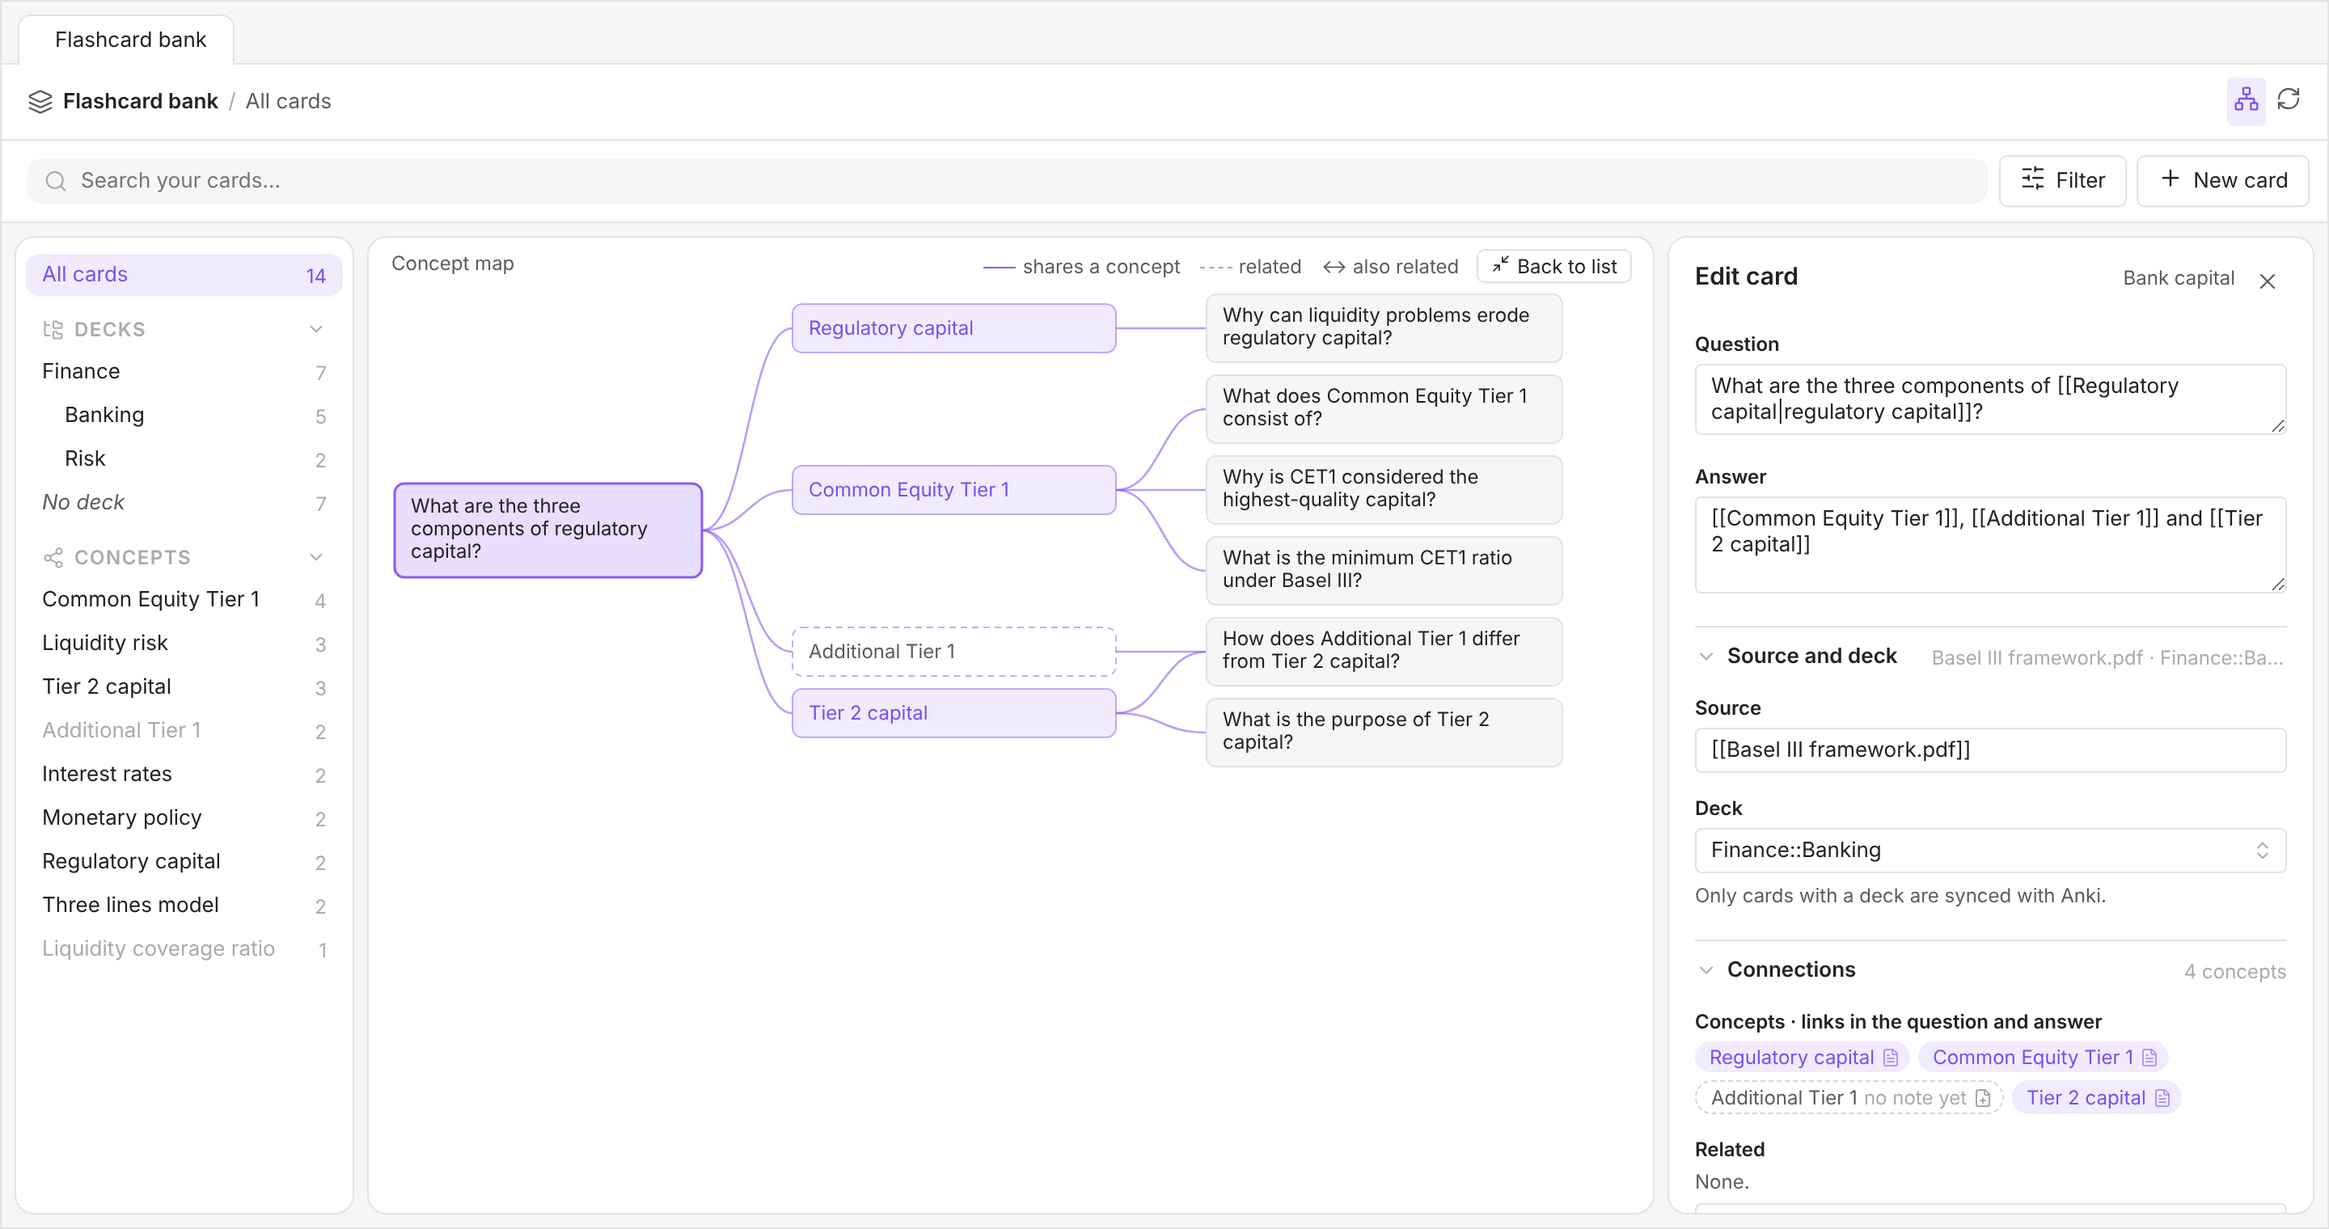
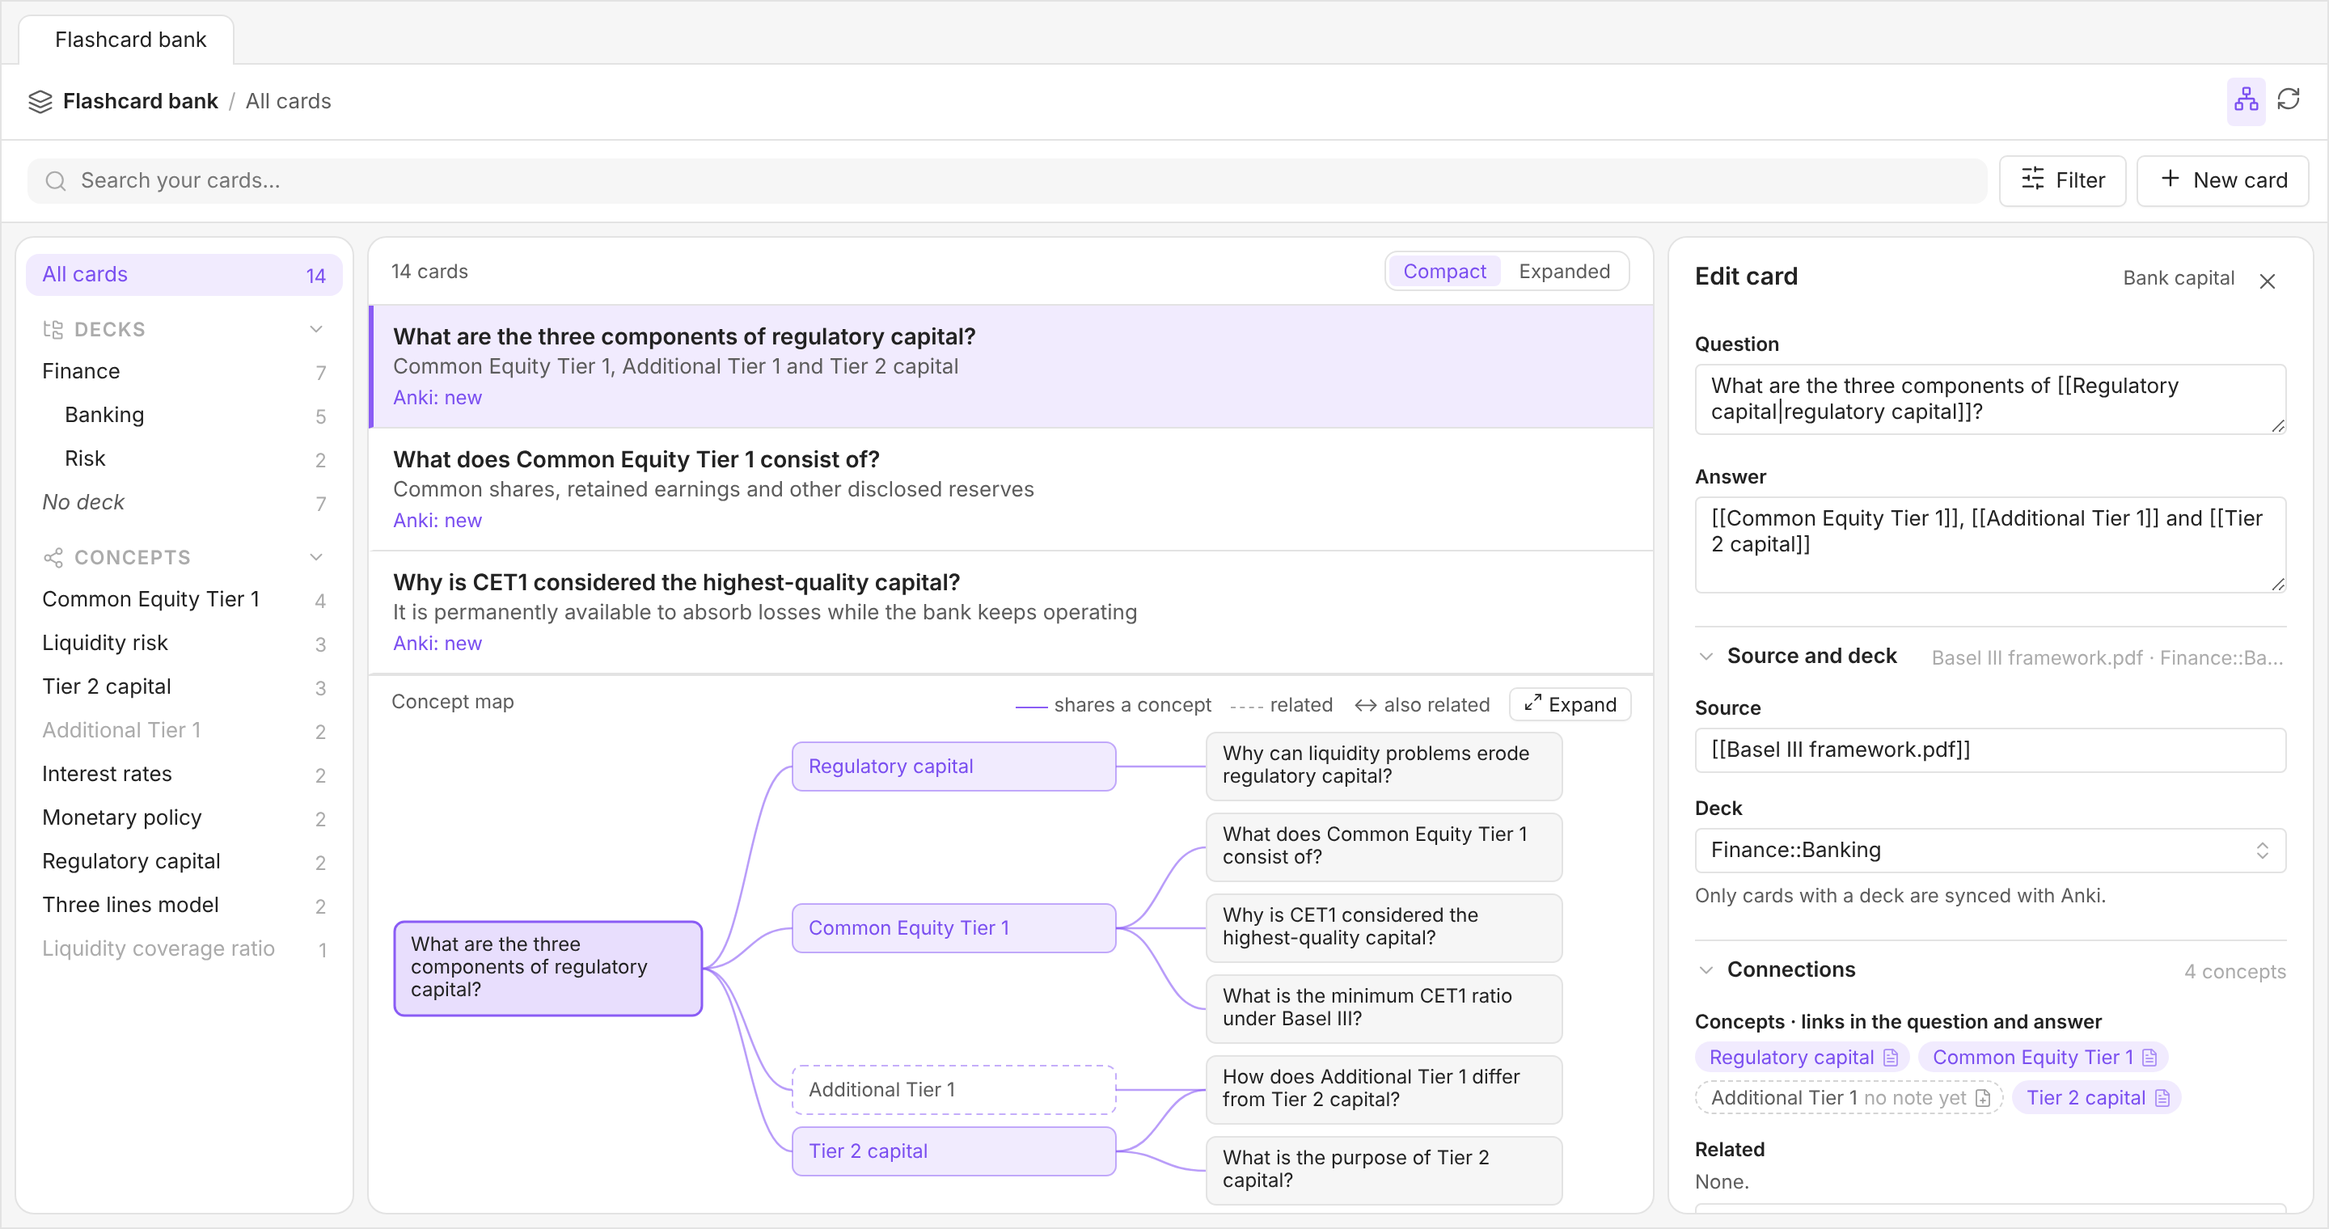
Release 1.3.2: labelled source and note links, filters show the list
- Card details (concept pages, Expanded list) show source, deck and note
  each with its icon; a [[linked]] source opens its note, the note name
  opens the note at the card.
- Changing a filter, searching, or using a source / Show in bank on a
  concept page collapses the expanded map so the list (the result) shows.
- Clicking the open card in the concept map goes back to it in the list.

Claude-Session: https://claude.ai/code/session_01W1zU3KSTWW1uK9WF7pcnHM

diff --git a/src/view.ts b/src/view.ts
@@ -128,6 +128,7 @@ export class BankView extends ItemView {
     const search = sw.createEl("input", { type: "search", placeholder: "Search your cards…", cls: "bt-search" });
     search.addEventListener("input", () => {
       this.query = search.value;
+      this.showList();
       if (this.pageKey) this.closePage();
       else {
         this.renderConcepts(); // the counts follow the search
@@ -335,6 +336,7 @@ export class BankView extends ItemView {
 
   private setFilter(which: "source" | "note", value: string): void {
     this[which] = value;
+    this.showList();
     if (this.pageKey) this.closePage(false);
     (which === "source" ? this.sourceSel : this.noteSel).value = value;
     this.renderFilterButton();
@@ -497,6 +499,7 @@ export class BankView extends ItemView {
   private showAll(): void {
     this.concept = "";
     this.deck = null;
+    this.showList();
     if (this.pageKey) this.closePage();
     else {
       this.renderConcepts();
@@ -507,6 +510,7 @@ export class BankView extends ItemView {
   /** Filter the bank by a concept (clicking the active one again clears it). Combines with the deck filter. */
   private setConcept(key: string): void {
     this.concept = this.concept === key && key !== "" ? "" : key;
+    this.showList();
     if (this.pageKey) this.closePage(false);
     this.renderConcepts();
     this.renderList();
@@ -515,6 +519,7 @@ export class BankView extends ItemView {
   /** Filter the bank by a deck and its sub-decks (clicking the active one again clears it). Combines with the concept filter. */
   private setDeck(deck: string | null): void {
     this.deck = this.deck === deck ? null : deck;
+    this.showList();
     if (this.pageKey) this.closePage(false);
     this.renderConcepts();
     this.renderList();
@@ -565,19 +570,47 @@ export class BankView extends ItemView {
     row.createDiv({ cls: "bt-card-q", text: readable(c.q) || "(no question)" });
     if (c.a) row.createDiv({ cls: "bt-card-a", text: readable(c.a) });
     if (this.cfg.density === "expanded") {
-      const meta: string[] = [];
-      const src = plainValue(this.fieldOf(c, this.fieldNames.source));
-      if (src) meta.push(src);
-      meta.push(this.store.deckOf(c) || "no deck");
-      meta.push(noteName(c.path));
-      const nr = this.store.linksOf(c).length;
-      if (nr) meta.push(nr + " related");
-      const m = row.createDiv({ cls: "bt-card-meta", text: meta.join(" · ") });
-      if (!c.id) m.createSpan({ cls: "bt-warn", text: " · no id" });
+      this.metaItems(row.createDiv({ cls: "bt-card-meta" }), c, true);
     }
     const st = this.store.ankiStatus(c);
     if (st !== "none") row.createDiv({ cls: "bt-card-status is-" + st, text: ANKI_LABEL[st] });
     row.addEventListener("click", () => this.selectCard(c));
+  }
+
+  /**
+   * A card's details, each with its icon: the source (a [[link]] opens its note),
+   * the note the card is in (opens it at the card's line), and in the list also
+   * the deck, the number of related cards and a missing id.
+   */
+  private metaItems(el: HTMLElement, c: Card, full: boolean): void {
+    const item = (icon: string, title: string) => {
+      const i = el.createSpan({ cls: "bt-meta-item", attr: { "aria-label": title } });
+      setIcon(i.createSpan({ cls: "bt-meta-icon" }), icon);
+      return i;
+    };
+    const link = (parent: HTMLElement, text: string, title: string, go: () => void) => {
+      const a = parent.createSpan({ cls: "bt-meta-link", text });
+      a.setAttr("title", title);
+      a.addEventListener("click", (e) => { e.stopPropagation(); go(); });
+    };
+    const value = this.fieldOf(c, this.fieldNames.source);
+    if (value) {
+      const it = item("book-open", "Source");
+      const links = parseLinks(value).filter((l) => l.linkpath.trim());
+      links.forEach((l, i) => {
+        if (i) it.appendText(", ");
+        link(it, l.alias || l.linkpath.split("#")[0] || l.linkpath, "Open " + l.linkpath, () => { void this.app.workspace.openLinkText(l.linkpath, c.path, "tab"); });
+      });
+      const rest = value.replace(/!?\[\[[^\]]*\]\]/g, "").replace(/^[\s,;]+|[\s,;]+$/g, "").trim();
+      if (rest) it.appendText((links.length ? ", " : "") + rest);
+    }
+    if (full) item("layers", "Deck").appendText(this.store.deckOf(c) || "no deck");
+    link(item("file-text", "Note"), noteName(c.path), "Open the note at this card", () => { void this.revealInNote(c); });
+    if (full) {
+      const nr = this.store.linksOf(c).length;
+      if (nr) item("arrow-left-right", "Related cards").appendText(nr + " related");
+      if (!c.id) el.createSpan({ cls: "bt-meta-item bt-warn", text: "no id" });
+    }
   }
 
   /**
@@ -658,7 +691,7 @@ export class BankView extends ItemView {
     this.mapEl.empty();
     if (!this.cfg.showMap) return;
     const focus = this.selKey === "new" ? null : this.original;
-    drawConceptMap(this.mapEl, this.store, focus, (c) => this.selectCard(c), (k) => this.openPage(k.key), (tools) => {
+    drawConceptMap(this.mapEl, this.store, focus, (c) => this.selectCard(c), (k) => this.openPage(k.key), () => this.backToCard(), (tools) => {
       const exp = this.cfg.mapExpanded;
       const b = tools.createEl("button", { cls: "bt-map-expand", attr: { "aria-label": exp ? "Show the list again" : "Expand the map" } });
       setIcon(b.createSpan(), exp ? "minimize-2" : "maximize-2");
@@ -673,6 +706,17 @@ export class BankView extends ItemView {
     void this.plugin.saveSettings();
     this.syncToolbar();
     this.renderMap();
+  }
+
+  /** A filter changed: if the expanded map is hiding the list, bring the list back so the result shows. */
+  private showList(): void {
+    if (this.cfg.showMap && this.cfg.mapExpanded) this.setMapExpanded(false);
+  }
+
+  /** From the map: back to the open card in the list (and the editor). */
+  private backToCard(): void {
+    this.showList();
+    this.listEl.querySelector<HTMLElement>(".bt-card.is-active")?.scrollIntoView({ block: "nearest" });
   }
 
   // ── Concept page ─────────────────────────────────────────────────────────
@@ -764,6 +808,7 @@ export class BankView extends ItemView {
     show.createSpan({ text: "Show in bank" });
     show.addEventListener("click", () => {
       this.concept = k.key;
+      this.showList();
       this.closePage();
     });
     const note = acts.createEl("button");
@@ -804,6 +849,7 @@ export class BankView extends ItemView {
         row.addEventListener("click", () => {
           this.concept = k.key;
           this.source = s;
+          this.showList();
           this.closePage(false);
           this.renderFilters();
           this.renderConcepts();
@@ -839,8 +885,7 @@ export class BankView extends ItemView {
     const body = item.createDiv({ cls: "bt-pc-body" });
     this.richText(body.createDiv({ cls: "bt-pc-a" }), c.a || "(no answer)", c.path);
     const meta = body.createDiv({ cls: "bt-pc-meta" });
-    const src = plainValue(this.fieldOf(c, this.fieldNames.source));
-    meta.createSpan({ text: (src ? src + " · " : "") + noteName(c.path) + " · " });
+    this.metaItems(meta, c, false);
     const edit = meta.createSpan({ cls: "bt-pc-edit", text: "Edit card" });
     edit.addEventListener("click", (e) => { e.stopPropagation(); this.editFromPage(c); });
     const draw = () => setIcon(tog, item.hasClass("is-open") ? "minus" : "plus");

diff --git a/styles.css b/styles.css
@@ -240,7 +240,12 @@
 .bt-card-a { color: var(--text-muted); font-size: var(--font-ui-small); margin-top: 2px; }
 .bt-list:not(.is-expanded) .bt-card-q,
 .bt-list:not(.is-expanded) .bt-card-a { overflow: hidden; text-overflow: ellipsis; white-space: nowrap; }
-.bt-card-meta { font-size: var(--font-ui-smaller); color: var(--text-faint); margin-top: 4px; }
+.bt-card-meta, .bt-pc-meta { display: flex; flex-wrap: wrap; align-items: center; gap: 4px 12px; font-size: var(--font-ui-smaller); color: var(--text-faint); margin-top: 4px; }
+.bt-meta-item { display: inline-flex; align-items: center; gap: 4px; min-width: 0; }
+.bt-meta-icon { display: inline-flex; flex: none; }
+.bt-root .bt-meta-icon svg { width: 12px; height: 12px; }
+.bt-meta-link { color: var(--text-muted); cursor: pointer; border-bottom: 1px dotted currentColor; }
+.bt-meta-link:hover { color: var(--text-accent); }
 .bt-card-status { font-size: var(--font-ui-smaller); color: var(--text-accent); margin-top: 3px; }
 .bt-card-status.is-synced { color: var(--text-muted); }
 .bt-card-status.is-leaving { color: var(--color-red); }
@@ -386,7 +391,7 @@ textarea.bt-input { resize: vertical; font-family: inherit; }
 .bt-pc-body { display: none; padding: 0 0 12px; }
 .bt-pc.is-open .bt-pc-body { display: block; }
 .bt-pc-a { color: var(--text-muted); }
-.bt-pc-meta { font-size: var(--font-ui-smaller); color: var(--text-faint); margin-top: 6px; }
+
 .bt-pc-edit { color: var(--text-accent); cursor: pointer; }
 .bt-pc-edit:hover { text-decoration: underline; }
 .bt-near { background: var(--background-secondary); border-radius: var(--radius-m); padding: 10px 12px; margin-bottom: 8px; cursor: pointer; }

diff --git a/src/map.ts b/src/map.ts
@@ -56,6 +56,7 @@ export function drawConceptMap(
   focus: Card | null | undefined,
   onCard: (c: Card) => void,
   onConcept: (k: Concept) => void,
+  onFocus: () => void,
   addTools?: (tools: HTMLElement) => void
 ): void {
   const head = el.createDiv({ cls: "bt-map-head" });
@@ -166,7 +167,8 @@ export function drawConceptMap(
 
   // Open card
   const fg = svg(s, "g", { class: "bt-node is-active" });
-  svg(fg, "title", {}).textContent = plain(focus.q);
+  svg(fg, "title", {}).textContent = plain(focus.q) + " · click to go back to this card in the list";
+  fg.addEventListener("click", onFocus);
   svg(fg, "rect", { x: 0, y: focusBox.y, width: FW, height: fh, rx: 6 });
   text(fg, fLines, 10, focusBox.y + 4);
 

diff --git a/README.md b/README.md
@@ -114,8 +114,8 @@ Since they're ordinary links, concepts also work outside the plugin: a concept n
 | **Search bar** | Searches questions, answers and every field. **Filter** opens a source filter (each linked file, plus any plain-text source) and a note filter; the button shows how many are on. **New card** opens an empty card. |
 | **Decks and concepts** (left) | *All cards* at the top shows the whole bank and clears the deck and concept filters. Below it, two sections you can fold (the plugin remembers which are open). **Decks** lists every Anki deck your cards use, with sub-decks indented under their parent (`Finance::Banking` under *Finance*); click one to show its cards, sub-decks included. *No deck* lists the cards that aren't synced with Anki. The section only appears when some card has a deck. **Concepts** lists every concept, most-used first: click a name to open its [concept page](#concept-pages), or the filter icon next to it to filter the list instead. *No concepts* lists the cards that don't link to any. |
 | **Filters** | A deck and a concept filter combine (for example, the *Regulatory capital* cards in *Finance::Banking*), and they also combine with the search and the source and note filters. The active ones show as chips above the list, each with its own ×; a concept chip's name opens the concept's page. The numbers next to each deck and concept count the cards that the other filters leave, and the ones with none are dimmed. |
-| **List** (middle) | The matching cards, as plain text. **Compact** shows one line of question and one of answer; **Expanded** shows them in full, with the source, deck, note, the number of related cards, and **no id** when the card has no block id. Both show the card's Anki status (*Anki: new*, *Anki: changed*, *Synced with Anki*, *Anki: will be deleted*). The choice is remembered. |
-| **Map** | The concept map of the open card, under the list. The card is on the left, its concepts in the middle, and the other cards that mention each concept on the right. A card sharing several concepts is drawn once with a line from each, so the cards that bridge concepts stand out. Related cards get ↔, or a dashed line when they share no concept. Clicking a card centers the map on it; clicking a concept opens its page. The map shrinks to fit the column; **Expand** in its header hides the list so the map gets the whole middle column, and **Back to list** restores it. |
+| **List** (middle) | The matching cards, as plain text. **Compact** shows one line of question and one of answer; **Expanded** shows them in full, with the source, deck and note (each with its icon), the number of related cards, and **no id** when the card has no block id. A source that's a `[[link]]` opens its note when clicked, and the note's name opens the note at the card. Both show the card's Anki status (*Anki: new*, *Anki: changed*, *Synced with Anki*, *Anki: will be deleted*). The choice is remembered. |
+| **Map** | The concept map of the open card, under the list. The card is on the left, its concepts in the middle, and the other cards that mention each concept on the right. A card sharing several concepts is drawn once with a line from each, so the cards that bridge concepts stand out. Related cards get ↔, or a dashed line when they share no concept. Clicking a card centers the map on it; clicking a concept opens its page; clicking the open card (on the left) takes you back to it in the list. The map shrinks to fit the column; **Expand** in its header hides the list so the map gets the whole middle column, and **Back to list** restores it. Changing a filter or searching also brings the list back, so you see the result. |
 | **Editor** (right) | Opens when you click a card. |
 
 In a narrow pane (or on a phone) the bank shows one panel at a time: opening a card replaces the list with the editor, and **Cards** at its top brings you back to the list where you left it, with the same search, filters and scroll position. In a very narrow pane the decks and concepts become strips above the list.
@@ -128,7 +128,7 @@ Clicking a concept opens a page that brings together everything your cards say a
 
 ![A concept page: the cards about Regulatory capital, nearby concepts and sources](images/concept-page.png)
 
-- **Overview**: the cards that mention the concept (click a question to show its answer, source and note, and **Edit card** to open it in the editor), the concepts that share cards with it under **Explore nearby**, with how many cards they share, and the sources those cards cite. Clicking a source shows the bank filtered by the concept and that source.
+- **Overview**: the cards that mention the concept (click a question to show its answer, its source and the note it's in, and **Edit card** to open it in the editor; a linked source and the note open when clicked), the concepts that share cards with it under **Explore nearby**, with how many cards they share, and the sources those cards cite. Clicking a source shows the bank filtered by the concept and that source.
 - **Connections**: for each concept that shares cards with this one, the cards that link the two. Click a card to read its answer, or the other concept to go to its page.
 - **Show in bank** filters the list by the concept; **Open note** opens the concept's note (or **Create note**, if it doesn't exist yet).
 

diff --git a/CHANGELOG.md b/CHANGELOG.md
@@ -2,6 +2,17 @@
 
 All notable changes to Flashcard Bank are recorded here. Versions follow [Semantic Versioning](https://semver.org/).
 
+## 1.3.2 — 2026-10-20
+
+### Fixed
+
+- **A card's source and note are told apart.** On concept pages and in the Expanded list, a card's details showed as plain names in a row, so a card citing `[[Kaput]]` and written in the note *Kaput* read "Kaput · Kaput". Each detail now has its icon (source, deck, note). A source that's a `[[link]]` opens its note when clicked, and the note's name opens the note at the card.
+- **Filtering with the map expanded shows the result.** The expanded concept map hides the list, so choosing a deck or concept, searching, or clicking a source or **Show in bank** on a concept page seemed to do nothing. These now bring the list back.
+
+### Changed
+
+- In the concept map, clicking the open card (on the left) takes you back to it in the list.
+
 ## 1.3.1 — 2026-10-20
 
 ### Fixed
